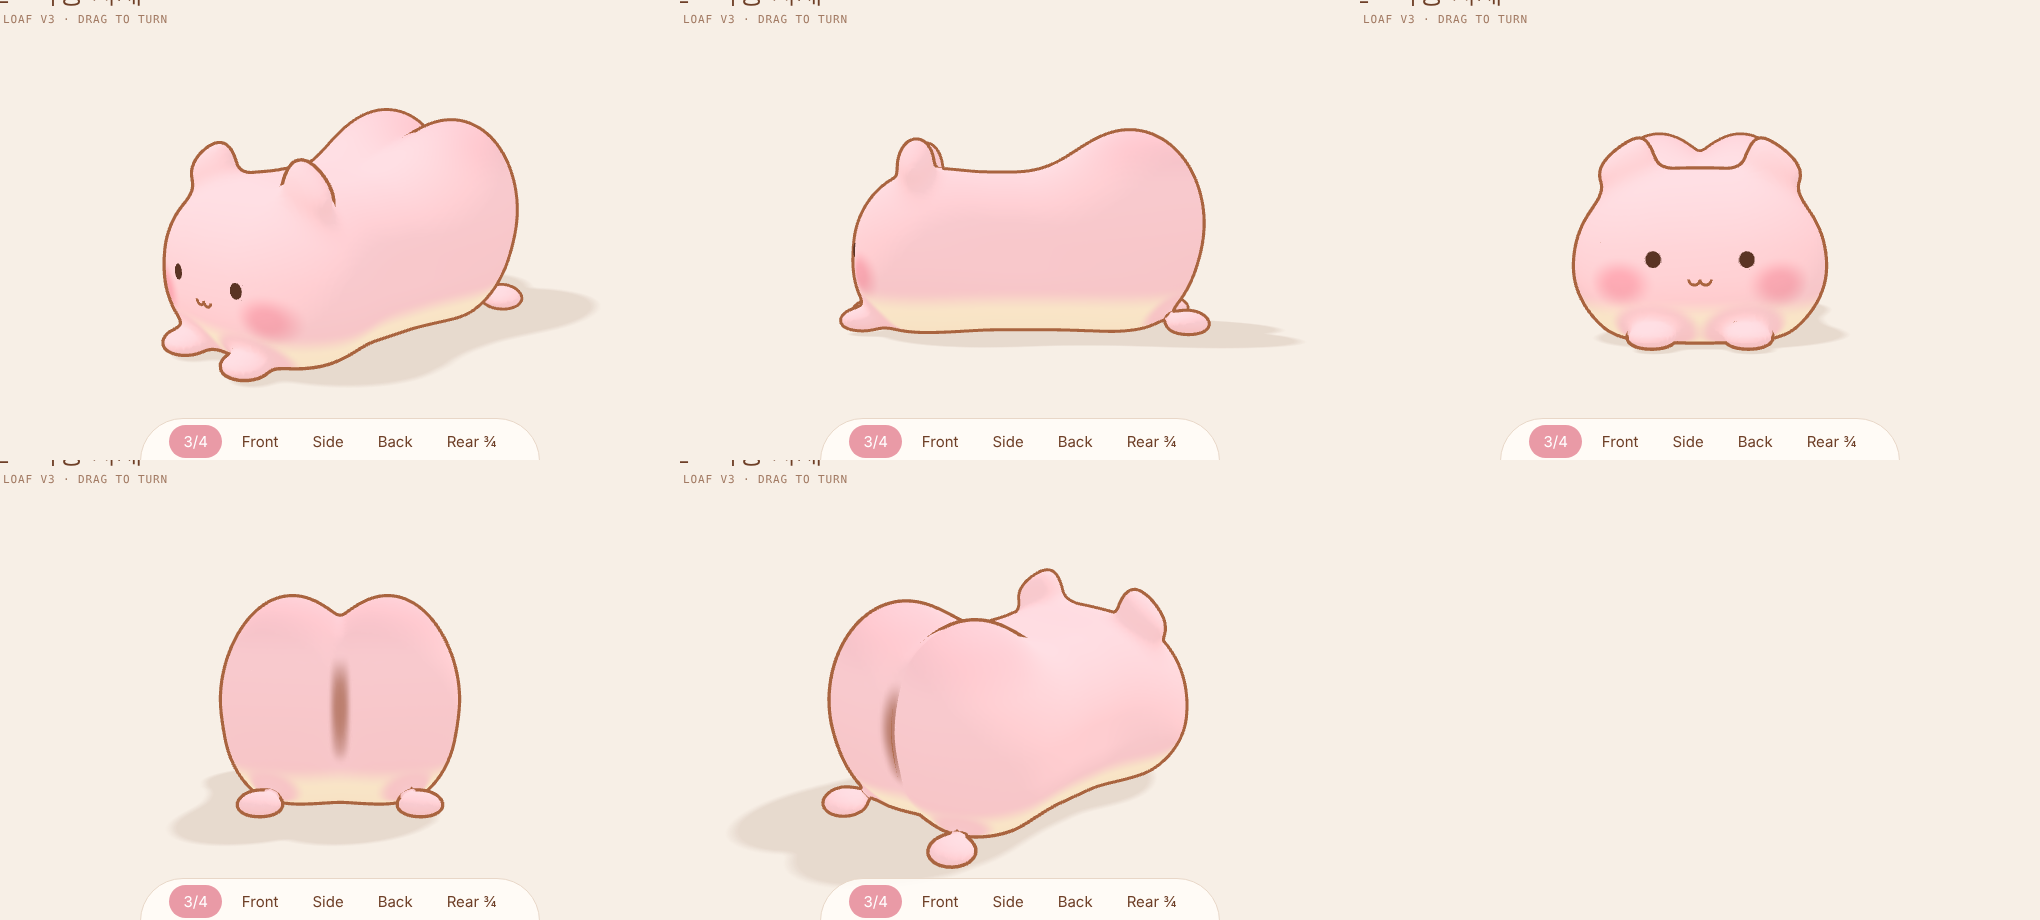
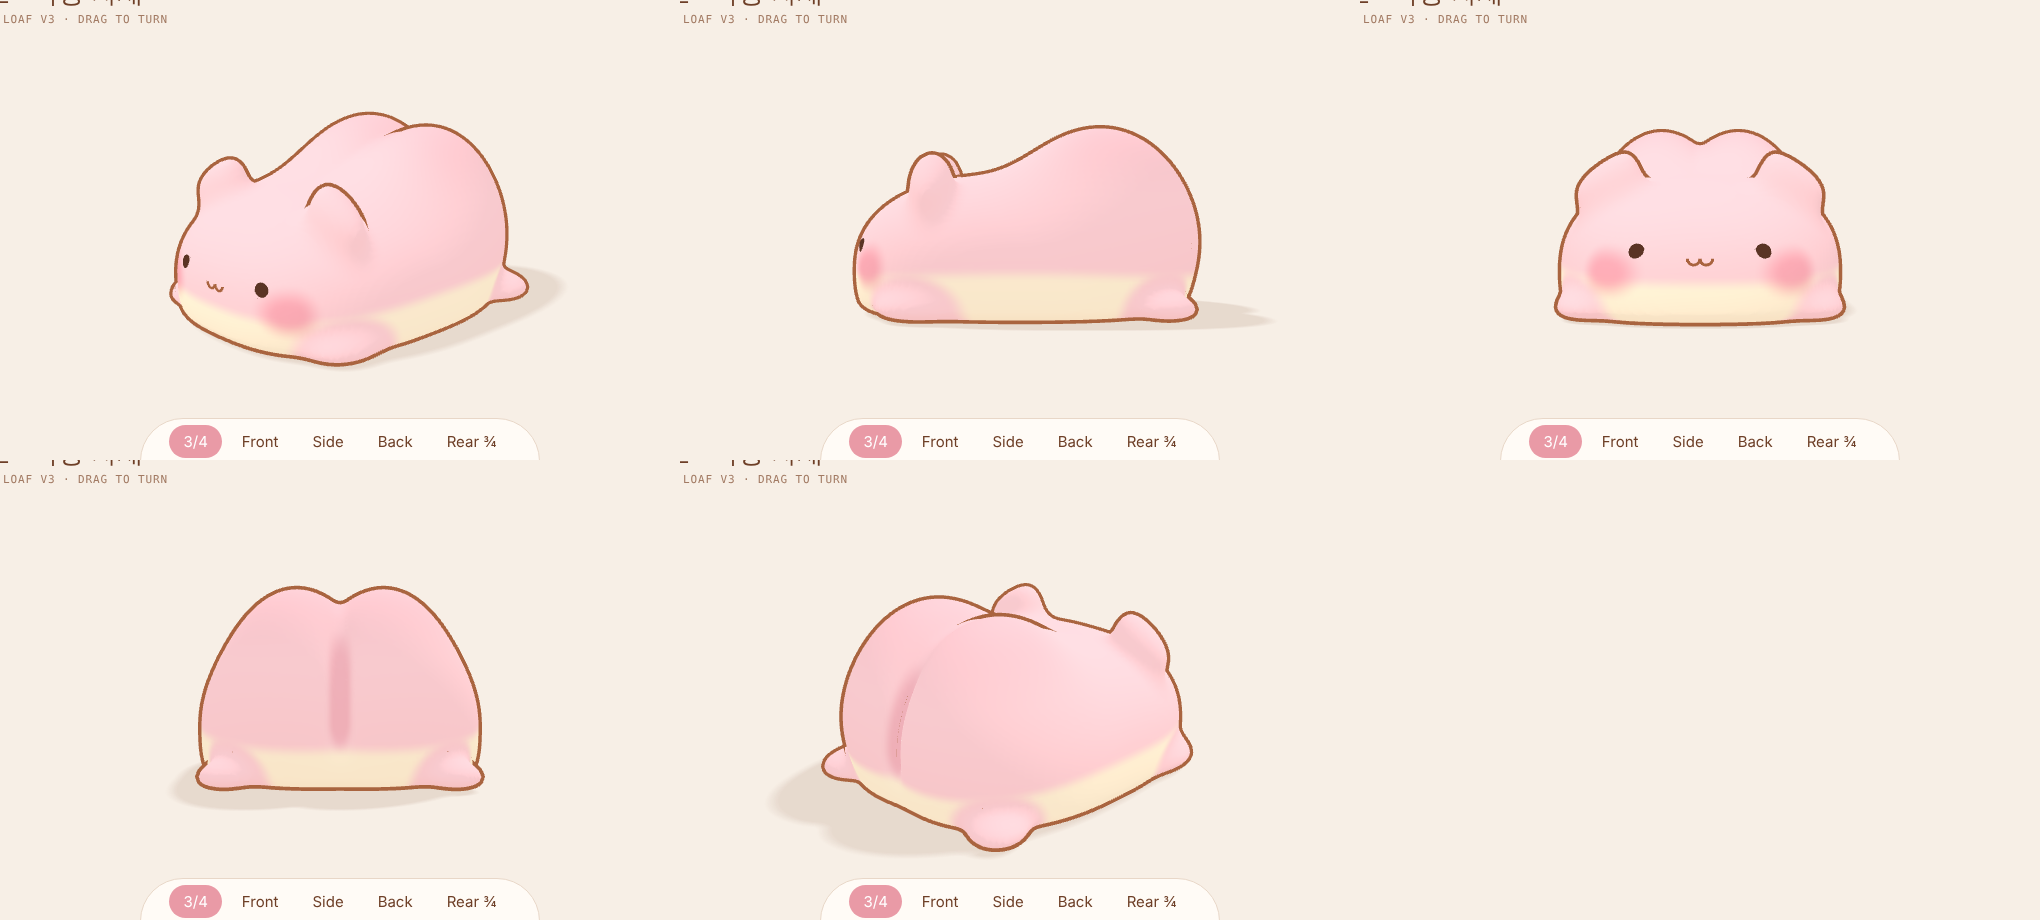
Ppomo loaf v3: flatter, wider mochi body, blunt front, narrower rump on the back half
Claude-Session: https://claude.ai/code/session_01KDvbePoQSCswEvmDQpWvZS

diff --git a/characters/ppomo-cat/ppomo-loaf-v3.html b/characters/ppomo-cat/ppomo-loaf-v3.html
@@ -59,15 +59,15 @@ import { OrbitControls } from 'three/addons/controls/OrbitControls.js';
 // units: about 1 = body height. z points forward (face at +z), y up from the floor.
 // side silhouette: flat bottom, broad rounded front, back line rising a little into a big round rump at the rear-top.
 const SHAPE = {
-  loaf:  { x: 0, y: 0.48, z: 0.06, hx: 0.60, hy: 0.48, hz: 0.92, r: 0.40 },  // rounded box: ~1.2 wide, ~1 tall, ~1.9 long
-  face:  { x: 0, y: 0.44, z: 0.62, rx: 0.68, ry: 0.44, rz: 0.40 },          // makes the front a little fuller at the cheeks
-  rump:  { x: 0.27, y: 0.68, z: -0.60, rx: 0.37, ry: 0.53, rz: 0.43 },       // two butt lobes ±x, rising above the back line
-  ear:   { x: 0.38, y: 0.99, z: 0.66, rx: 0.15, ry: 0.17, rz: 0.10 },        // small rounded-triangle ears on the front-top corners
-  paw:   { x: 0.26, y: 0.07, z: 0.99, rx: 0.13, ry: 0.08, rz: 0.13 },        // front paws peeking out under the face
-  foot:  { x: 0.44, y: 0.07, z: -0.93, rx: 0.12, ry: 0.08, rz: 0.12 },       // back feet, barely visible
-  eye:   { x: 0.25, y: 0.50, r: 0.05 },
-  mouth: { y: 0.40 },
-  blush: { x: 0.43, y: 0.37 },
+  // a squashed mochi: widest near the floor, low rounded front, wide (about 1.5 wide x 0.7 tall x 1.85 long)
+  loaf:  { x: 0, y: 0.22, z: 0.0, rx: 0.74, ry: 0.52, rz: 0.88, n: 2.6 },
+  rump:  { x: 0.22, y: 0.52, z: -0.42, rx: 0.34, ry: 0.46, rz: 0.44 },       // two big lobes ±x on the back half
+  ear:   { x: 0.42, z: 0.45, rx: 0.17, ry: 0.18, rz: 0.11 },                 // small rounded-triangle ears on the front-top corners
+  paw:   { x: 0.58, y: 0.06, z: 0.52, rx: 0.13, ry: 0.08, rz: 0.17 },        // front paws poking out at the sides
+  foot:  { x: 0.56, y: 0.06, z: -0.74, rx: 0.13, ry: 0.08, rz: 0.14 },       // back feet at the rear corners
+  eye:   { x: 0.30, y: 0.36, r: 0.045 },
+  mouth: { y: 0.34 },
+  blush: { x: 0.45, y: 0.27 },
 };
 const PAL = {
   body: '#F9CDD3',      // soft strawberry-milk pink
@@ -77,27 +77,33 @@ const PAL = {
   ink: '#5A3424',       // eyes
   line: '#A9643F',      // brown outline
 };
-const BLEND = { face: 0.22, rump: 0.26, cleft: 0.05, ear: 0.08, limb: 0.08, floor: 0.08 };
+const BLEND = { rump: 0.24, cleft: 0.05, ear: 0.07, limb: 0.08, floor: 0.06 };
 const smooth = (a, b, x) => { const t = Math.min(1, Math.max(0, (x - a) / (b - a))); return t * t * (3 - 2 * t); };
 const smin = (a, b, k) => { const h = Math.max(k - Math.abs(a - b), 0) / k; return Math.min(a, b) - h * h * k * 0.25; };
 const smax = (a, b, k) => -smin(-a, -b, k);
 const ell = (x, y, z, c, rx, ry, rz) => (Math.hypot((x - c.x) / rx, (y - c.y) / ry, (z - c.z) / rz) - 1) * Math.min(rx, ry, rz);
-function roundBox(x, y, z, B) {
-  const qx = Math.abs(x - B.x) - B.hx + B.r, qy = Math.abs(y - B.y) - B.hy + B.r, qz = Math.abs(z - B.z) - B.hz + B.r;
-  return Math.hypot(Math.max(qx, 0), Math.max(qy, 0), Math.max(qz, 0)) + Math.min(Math.max(qx, qy, qz), 0) - B.r;
+// superellipsoid: squarer footprint from above (n > 2), round in profile
+function mochi(x, y, z, L) {
+  const u = Math.abs(x - L.x) / L.rx, w = Math.abs(z - L.z) / L.rz;
+  const r = Math.pow(Math.pow(u, L.n) + Math.pow(w, L.n), 1 / L.n);
+  const v = Math.abs(y - L.y) / L.ry, m = 2.4;                  // m > 2: blunter front and sides in profile
+  return (Math.pow(Math.pow(r, m) + Math.pow(v, m), 1 / m) - 1) * Math.min(L.rx, L.ry, L.rz) * 0.9;
 }
-
-const cleft = (x, y, z) => Math.exp(-((x / 0.06) ** 2)) * smooth(-0.8, -1.0, z) * smooth(0.12, 0.4, y);
+function bodySDF(x, y, z) {
+  const S = SHAPE, R = S.rump;
+  const rump = smin(ell(x, y, z, { x: -R.x, y: R.y, z: R.z }, R.rx, R.ry, R.rz), ell(x, y, z, { x: R.x, y: R.y, z: R.z }, R.rx, R.ry, R.rz), BLEND.cleft);
+  return smin(mochi(x, y, z, S.loaf), rump, BLEND.rump);
+}
+// height of the top surface at (x, z): where the ears sit
+const topY = (x, z) => { let y = 2; while (y > 0 && bodySDF(x, y, z) > 0) y -= 0.004; return y; };
+const EAR_Y = topY(SHAPE.ear.x, SHAPE.ear.z) + 0.04;
+const cleft = (x, y, z) => Math.exp(-((x / 0.06) ** 2)) * smooth(-0.6, -0.85, z) * smooth(0.12, 0.35, y);
 function modelSDF(x, y, z) {
   const S = SHAPE;
-  let d = smin(roundBox(x, y, z, S.loaf), ell(x, y, z, S.face, S.face.rx, S.face.ry, S.face.rz), BLEND.face);
-  // two rump lobes: a small blend between them keeps the cleft (and the notch on top), a big one melts them into the back
-  const R = S.rump;
-  const rump = smin(ell(x, y, z, { x: -R.x, y: R.y, z: R.z }, R.rx, R.ry, R.rz), ell(x, y, z, { x: R.x, y: R.y, z: R.z }, R.rx, R.ry, R.rz), BLEND.cleft);
-  d = smin(d, rump, BLEND.rump);
+  let d = bodySDF(x, y, z);
   for (const s of [-1, 1]) {
     // ears: an ellipsoid that narrows toward the tip = a soft rounded triangle, tilted a little outward
-    const E = S.ear, ex = x - s * E.x, ey = y - E.y, ez = z - E.z;
+    const E = S.ear, ex = x - s * E.x, ey = y - EAR_Y, ez = z - E.z;
     const c = Math.cos(s * 0.3), sn = Math.sin(s * 0.3);
     const lx = ex * c + ey * sn, ly = -ex * sn + ey * c;
     const taper = 1 - 0.45 * Math.max(-1, Math.min(1, ly / E.ry));
@@ -105,10 +111,10 @@ function modelSDF(x, y, z) {
     d = smin(d, ell(x, y, z, { x: s * S.paw.x, y: S.paw.y, z: S.paw.z }, S.paw.rx, S.paw.ry, S.paw.rz), BLEND.limb);
     d = smin(d, ell(x, y, z, { x: s * S.foot.x, y: S.foot.y, z: S.foot.z }, S.foot.rx, S.foot.ry, S.foot.rz), BLEND.limb);
   }
-  d += cleft(x, y, z) * 0.04;                    // a shallow groove down the back between the two lobes
+  d += cleft(x, y, z) * 0.03;                    // a shallow groove down the back between the two lobes
   return smax(d, -(y - 0.02), BLEND.floor);       // flat underside: it lies on the floor
 }
-const BOUNDS = { min: [-0.95, -0.02, -1.3], max: [0.95, 1.4, 1.4] };
+const BOUNDS = { min: [-0.95, -0.02, -1.1], max: [0.95, 1.2, 1.15] };
 
 // ---------- surface (naive surface nets, projected onto the field) ----------
 function meshField(f, min, max, h) {
@@ -177,17 +183,17 @@ function colorize(geo) {
   for (let i = 0; i < pos.count; i++) {
     const x = pos.getX(i), y = pos.getY(i), z = pos.getZ(i);
     c.copy(body);
-    c.lerp(shade, 0.35 * smooth(0.85, 1.12, y) * smooth(-0.2, -0.6, z));      // rump top a little deeper
-    let band = 1 - smooth(0.16, 0.30, y);                                    // cream band along the bottom
+    c.lerp(shade, 0.3 * smooth(0.6, 0.95, y) * smooth(0.0, -0.4, z));         // rump top a little deeper
+    let band = 1 - smooth(0.17, 0.25, y - 0.05 * Math.cos(z * 1.6));         // big cream belly, rising a little mid-side
     for (const sx of [-1, 1]) {                                              // paws and feet stay pink
       const dp = Math.hypot((x - sx * SHAPE.paw.x) / 0.26, (y - SHAPE.paw.y) / 0.2, (z - SHAPE.paw.z) / 0.28);
       const df = Math.hypot((x - sx * SHAPE.foot.x) / 0.24, (y - SHAPE.foot.y) / 0.2, (z - SHAPE.foot.z) / 0.26);
       band *= smooth(0.8, 1.15, Math.min(dp, df));
     }
     c.lerp(belly, band * 0.95);
-    c.lerp(lineC, 0.8 * smooth(0.25, 0.7, cleft(x, y, z)));               // the cleft reads as a soft brown line
+    c.lerp(shade, 0.9 * smooth(0.2, 0.8, cleft(x, y, z)));                 // the cleft reads as a soft brown line
     for (const s of [-1, 1]) {                                               // blush below the eyes
-      const dd = Math.hypot(x - s * SHAPE.blush.x, (y - SHAPE.blush.y) * 1.3, Math.max(0, 0.9 - z) * 1.5);
+      const dd = Math.hypot(x - s * SHAPE.blush.x, (y - SHAPE.blush.y) * 1.3, Math.max(0, 0.75 - z) * 1.5);
       c.lerp(cheek, 0.85 * (1 - smooth(0.05, 0.2, dd)));
     }
     col.set([c.r, c.g, c.b], i * 3);
@@ -251,12 +257,12 @@ for (const s of [-1, 1]) {
 
 // ---------- camera & views ----------
 const camera = new THREE.PerspectiveCamera(26, 1, 0.1, 80);
-const TARGET = new THREE.Vector3(0, 0.55, 0.05);
+const TARGET = new THREE.Vector3(0, 0.38, 0);
 const controls = new OrbitControls(camera, renderer.domElement);
 controls.target.copy(TARGET); controls.enableDamping = true; controls.dampingFactor = 0.08;
 controls.minDistance = 4; controls.maxDistance = 14; controls.maxPolarAngle = Math.PI * 0.53;
 const VIEWS = {
-  three: [5.0, 2.4, 4.8], front: [0, 1.0, 7.5], side: [7.5, 0.9, 0.05], back: [0, 1.4, -7.5], top: [0.001, 8.0, 0.6], rear: [-4.6, 3.0, -4.8],
+  three: [4.6, 2.4, 4.4], front: [0, 0.75, 6.6], side: [6.6, 0.8, 0], back: [0, 0.95, -6.6], top: [0.001, 7.0, 0.4], rear: [-4.2, 2.8, -4.4],
 };
 let tween = null;
 function goView(name) {
